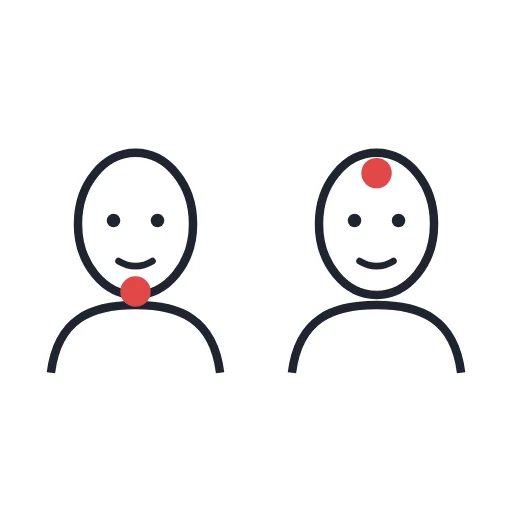
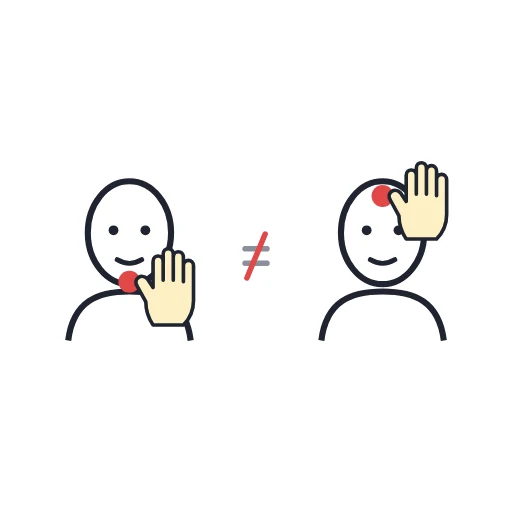
Supply Closet: Word check and Take home formats, word CSV downloads, closet pages in search
- Word check: matching plus fill-in from example sentences, answer key on page 2
- Take home: one page of words and meanings with a home practice idea
- CSV of each module's words (English and Spanish) for Quizlet, Gimkit, spreadsheets
- Word Wall pages, anchor charts, posters and family games now in site search
- minimal pair card redrawn: same hand at chin and forehead

Changed region(s): [[0.5625, 0.2812, 0.9062, 0.75], [0.0938, 0.2812, 0.4375, 0.75], [0.4688, 0.4375, 0.5312, 0.5625]]

diff --git a/site/templates/closet/words.html b/site/templates/closet/words.html
@@ -19,6 +19,8 @@
         <label><input type="radio" name="format" value="wall" checked> Wall cards</label>
         <label><input type="radio" name="format" value="mini"> Mini cards</label>
         <label><input type="radio" name="format" value="gloss"> My words</label>
+        <label><input type="radio" name="format" value="check"> Word check</label>
+        <label><input type="radio" name="format" value="home"> Take home</label>
       </fieldset>
       <fieldset>
         <legend>Language</legend>
@@ -31,6 +33,9 @@
     <p class="word-hint" data-for="wall">Pick a format and a language, then press <b>Print</b>. Wall cards print sideways (landscape), two to a page. Kids can draw in the empty boxes.</p>
     <p class="word-hint" data-for="mini">Pick a language, then press <b>Print</b>. Eight cards to a page: cut on the dashed lines for pocket charts, matching games and word sorts.</p>
     <p class="word-hint" data-for="gloss">Pick a language, then press <b>Print</b>. One page per student: they write what each word means in their own words and draw it.</p>
+    <p class="word-hint" data-for="check">Pick a language, then press <b>Print</b>. A quick check: match each word to its meaning, then fill in the missing word in each sentence. The answer key prints on page 2.{% if band == 'k2' %} For young readers, read the meanings aloud.{% endif %}</p>
+    <p class="word-hint" data-for="home">Pick a language, then press <b>Print</b>. One page for families: the words and what they mean, with an easy way to practice at home.</p>
+    <p class="word-dl"><a href="{{ m.module_id }}-words.csv" download>Download the words (CSV)</a> for Quizlet, Gimkit, Kahoot or a spreadsheet: word, meaning, example, and the same in Spanish.</p>
     <p class="word-note es-note">The Spanish is a first draft. A native speaker has not checked it yet, so read it over before you print.</p>
     {{ teach_strip(tools) }}
   </div>
@@ -88,6 +93,62 @@
         {% endfor %}
       </tbody>
     </table>
+  </section>
+
+  <section class="fmt fmt-check">
+    <div class="gloss-head">
+      <h2><span class="en">Word check: {{ m.title }}</span><span class="es" lang="es">Repaso de palabras</span></h2>
+      <p><span class="en">Name</span><span class="es" lang="es">Nombre</span> <span class="blank"></span></p>
+    </div>
+    <h3 class="chk-h"><span class="en">1. Match each word to what it means. Write the letter.</span><span class="es" lang="es">1. Une cada palabra con lo que significa. Escribe la letra.</span></h3>
+    <div class="chk-match">
+      <ol class="chk-words">
+        {% for c in cards %}<li><span class="chk-line"></span> <b class="en">{{ c.word }}</b><b class="es" lang="es">{{ c.es_word }}</b></li>
+        {% endfor %}
+      </ol>
+      <ul class="chk-defs">
+        {% for c in cards | sort(attribute='letter') %}<li><b>{{ c.letter }}</b> <span class="en">{{ c.definition }}</span><span class="es" lang="es">{{ c.es_definition }}</span></li>
+        {% endfor %}
+      </ul>
+    </div>
+    {% set fill_en = cards | selectattr('gap_en') | sort(attribute='fill_rank') | list %}{% set fill_es = cards | selectattr('gap_es') | sort(attribute='fill_rank') | list %}
+    <h3 class="chk-h"><span class="en">2. Fill in the missing word.</span><span class="es" lang="es">2. Completa con la palabra que falta.</span></h3>
+    <ol class="chk-fill en">
+      {% for c in fill_en %}<li>{{ c.gap_en[0] }}<span class="chk-gap"></span>{{ c.gap_en[1] }}</li>
+      {% endfor %}
+    </ol>
+    <ol class="chk-fill es es-alone" lang="es">
+      {% for c in fill_es %}<li>{{ c.gap_es[0] }}<span class="chk-gap"></span>{{ c.gap_es[1] }}</li>
+      {% endfor %}
+    </ol>
+    <div class="chk-key page-break">
+      <h3 class="chk-h"><span class="en">Answer key: {{ m.title }}</span><span class="es" lang="es">Respuestas</span></h3>
+      <p><b><span class="en">1. Matching</span><span class="es" lang="es">1. Unir</span>:</b> {% for c in cards %}{{ loop.index }}-{{ c.letter }}{{ ', ' if not loop.last }}{% endfor %}</p>
+      <p class="en"><b>2. Fill in:</b> {% for c in fill_en %}{{ loop.index }}. {{ c.word }}{{ ', ' if not loop.last }}{% endfor %}</p>
+      <p class="es es-alone" lang="es"><b>2. Completar:</b> {% for c in fill_es %}{{ loop.index }}. {{ c.es_word }}{{ ', ' if not loop.last }}{% endfor %}</p>
+    </div>
+  </section>
+
+  <section class="fmt fmt-home">
+    <div class="home-head">
+      <p class="eyebrow">{{ grade_label(m.grade) }} · {{ subject.short }} · Curio Class</p>
+      <h2><span class="en">Words we are learning: {{ m.title }}</span><span class="es" lang="es">Palabras que estamos aprendiendo</span></h2>
+    </div>
+    <ul class="home-words">
+      {% for c in cards %}
+      <li>
+        <div class="pic">{% if c.src %}<img src="{{ c.src }}" alt="">{% endif %}</div>
+        <div>
+          <p class="w"><b class="en">{{ c.word }}</b><b class="es" lang="es">{{ c.es_word }}</b></p>
+          <p class="d"><span class="en">{{ c.definition }}</span><span class="es" lang="es">{{ c.es_definition }}</span></p>
+        </div>
+      </li>
+      {% endfor %}
+    </ul>
+    <div class="home-try">
+      <p class="en"><b>Try this at home.</b> Pick a word and ask your child what it means. Then take turns using it in a sentence about your day. Five minutes is plenty.</p>
+      <p class="es" lang="es"><b>Practiquen en casa.</b> Elijan una palabra y pregúntenle a su hijo o hija qué significa. Después, túrnense para usarla en una oración sobre su día. Cinco minutos bastan.</p>
+    </div>
   </section>
   <p class="print-foot">{{ m.title }} · {{ grade_label(m.grade) }} {{ subject.short }} · Curio Class, curioclass.org · free under CC BY 4.0</p>
 </div>

diff --git a/site/assets/curio.css b/site/assets/curio.css
@@ -397,6 +397,41 @@ section.block { padding: 56px 0 8px; }
 .words-page[data-format="wall"] [data-for="wall"], .words-page[data-format="mini"] [data-for="mini"],
 .words-page[data-format="gloss"] [data-for="gloss"], .words-page:not([data-lang="en"]) .es-note { display: block; }
 .words-page[data-format="wall"] .fmt-wall, .words-page[data-format="mini"] .fmt-mini, .words-page[data-format="gloss"] .fmt-gloss { display: block; margin-top: 22px; }
+.words-page[data-format="check"] [data-for="check"], .words-page[data-format="home"] [data-for="home"] { display: block; }
+.words-page[data-format="check"] .fmt-check, .words-page[data-format="home"] .fmt-home { display: block; margin-top: 22px; }
+.words-page[data-lang="both"] .es-alone { display: none; }
+.word-dl { font-size: 15px; margin: 8px 0 4px; max-width: 70ch; }
+.fmt-check, .fmt-home { background: var(--card); padding: 18px 22px; border-radius: 12px; }
+.chk-h { font: 650 18px/1.3 var(--sans); margin: 18px 0 8px; }
+.words-page[data-lang="both"] :is(.chk-h, .chk-key p) .es::before { content: " / "; }
+.chk-match { display: grid; grid-template-columns: minmax(0, 1fr) minmax(0, 1.6fr); gap: 24px; }
+.chk-words, .chk-fill { padding-left: 24px; margin: 0; }
+.chk-words li { margin: 0 0 14px; font-size: 17px; }
+.chk-words b.es { font-weight: 500; color: var(--muted); margin-left: 6px; }
+.words-page[data-lang="both"] .chk-words b.es::before { content: "/ "; }
+.words-page[data-lang="es"] .chk-words b.es { font-weight: 700; color: inherit; margin-left: 0; }
+.chk-line { display: inline-block; width: 38px; border-bottom: 1.5px solid var(--ink); margin-right: 6px; }
+.chk-defs { list-style: none; padding: 0; margin: 0; }
+.chk-defs li { margin: 0 0 10px; font-size: 15px; }
+.chk-defs li > b { display: inline-block; width: 22px; }
+.words-page[data-lang="both"] .chk-defs .es { display: block; margin-left: 22px; color: var(--muted); font-size: 13px; }
+.chk-fill li { margin: 0 0 14px; font-size: 16px; line-height: 1.6; }
+.chk-gap { display: inline-block; width: 130px; border-bottom: 1.5px solid var(--ink); margin: 0 4px; }
+.chk-key { margin-top: 28px; border-top: 1.5px dashed var(--line); padding-top: 8px; font-size: 14px; }
+.home-head { border-bottom: 3px solid var(--band); padding-bottom: 6px; }
+.home-head h2 { font-size: 26px; }
+.words-page[data-lang="both"] .home-head h2 .es { display: block; font-size: 20px; color: var(--muted); }
+.home-words { list-style: none; padding: 0; margin: 12px 0; display: grid; grid-template-columns: repeat(2, minmax(0, 1fr)); gap: 12px 22px; }
+.home-words li { display: grid; grid-template-columns: 80px minmax(0, 1fr); gap: 12px; align-items: center; break-inside: avoid; }
+.home-words .pic { height: 80px; display: flex; align-items: center; justify-content: center; }
+.home-words .pic img { max-width: 100%; max-height: 100%; }
+.home-words .w { font: 650 20px/1.15 var(--serif); margin: 0; }
+.home-words .d { font-size: 14px; margin: 2px 0 0; }
+.words-page[data-lang="both"] .home-words .w .es { font-weight: 500; color: var(--muted); font-size: 16px; }
+.words-page[data-lang="both"] .home-words .w .es::before { content: " / "; }
+.words-page[data-lang="both"] .home-words .d .es { display: block; color: var(--muted); font-size: 13px; }
+.home-try { border: 2px solid var(--band); border-radius: 10px; padding: 10px 14px; margin-top: 10px; }
+.home-try p { margin: 4px 0; font-size: 15px; }
 .words-page[data-lang="en"] .es, .words-page[data-lang="es"] .en, .words-page:not([data-lang="es"]) .es-only { display: none; }
 .words-page[data-lang="both"] :is(.gloss th, .gloss-head h2, .gloss-head p) .es::before { content: " / "; }
 .words-page p { margin: 0; }
@@ -461,6 +496,8 @@ section.block { padding: 56px 0 8px; }
   a { color: inherit; text-decoration: none; }
   .page-break { break-before: page; }
   .print-foot { display: block; font-size: 7.5pt; color: #555; margin-top: 8px; }
+  .fmt-check, .fmt-home { padding: 0; background: none; }
+  .chk-words li, .chk-fill li { margin-bottom: 0.2in; }
   .words-page { max-width: none; padding: 0; -webkit-print-color-adjust: exact; print-color-adjust: exact; }
   .words-page .fmt { margin-top: 0 !important; }
   .fmt-wall, .fmt-wall + .print-foot { page: wallcards; }

diff --git a/scripts/build_site.py b/scripts/build_site.py
@@ -3,7 +3,7 @@
 Run from the repo root:  python scripts/build_site.py
 Needs Jinja2 and Markdown (pip install jinja2 markdown). No other dependencies.
 """
-import base64, csv, json, re, shutil, sys
+import base64, csv, json, random, re, shutil, sys
 from collections import defaultdict
 from datetime import date
 from html import escape as html_escape
@@ -289,6 +289,31 @@ def chart_page(c, color, **ctx):
     (DIST / c['url'].strip('/') / 'chart.svg').write_text(chart_svg.svg(c, 'en', False, color), encoding='utf-8')
 
 
+def word_gap(word, text):
+    """(before, after) around the word in its example sentence, for the Word check fill-in; None if it is not there.
+    Spanish words change form (varía for variar), so a long one-word entry also matches its stem."""
+    hit = re.search(r'(?i)\b' + re.escape(word) + r'\w*', text)
+    if not hit and ' ' not in word and len(word) >= 5:
+        hit = re.search(r'(?i)\b' + re.escape(word[:-2]) + r'\w*', text)
+    return (text[:hit.start()], text[hit.end():]) if hit else None
+
+
+def word_check(seed, cards):
+    """Letters for the Word check matching: the meanings in a fixed shuffle (never the card order), letter A first."""
+    order = list(range(len(cards)))
+    random.Random(seed).shuffle(order)
+    if order == sorted(order):
+        order = order[1:] + order[:1]
+    for pos, i in enumerate(order):
+        cards[i]['letter'] = 'ABCDEFGHIJ'[pos]
+    fill = list(range(len(cards)))  # the fill-in sentences in their own shuffle, so the answers do not run in word order
+    random.Random(seed + '/fill').shuffle(fill)
+    if fill == sorted(fill):
+        fill.reverse()
+    for pos, i in enumerate(fill):
+        cards[i]['fill_rank'] = pos
+
+
 # modules: the hub for everything one module has (tools, then Supply Closet shelves as they ship)
 for m in modules.values():
     mt = by_module[m['module_id']]
@@ -308,6 +333,13 @@ for m in modules.values():
                 (dest / 'art').mkdir(parents=True, exist_ok=True)
                 shutil.copy2(c['art'], dest / 'art' / c['art'].name)
                 c['src'] = 'art/' + c['art'].name
+            c['gap_en'], c['gap_es'] = word_gap(c['word'], c['example']), word_gap(c['es_word'], c['es_example'])
+        word_check(m['module_id'], cards)
+        dest.mkdir(parents=True, exist_ok=True)
+        with open(dest / f"{m['module_id']}-words.csv", 'w', encoding='utf-8-sig', newline='') as f:  # BOM so Excel reads the Spanish
+            out = csv.writer(f)
+            out.writerow(['word', 'definition', 'example', 'palabra', 'definición', 'ejemplo'])
+            out.writerows([c['word'], c['definition'], c['example'], c['es_word'], c['es_definition'], c['es_example']] for c in cards)
         render('closet/words.html', m['url'] + 'words/', m=m, cards=cards, subject=subjects[m['subject']],
                band=check_words.band(m['grade']), tools=[t for t in mt if t['built']])
 
@@ -597,6 +629,20 @@ index += [{'t': m['title'], 'u': m['url'], 'g': grade_label(m['grade']), 's': su
            'b': any(t['built'] for t in by_module[m['module_id']])} for m in modules.values()]
 index += [{'t': s['title'], 'u': s['url'], 'g': grade_label(s['grades']), 's': 'Reading Room', 'f': s['kind'],
            'm': s.get('author', ''), 'c': '', 'd': s.get('summary', ''), 'b': s['ready']} for s in stories + speeches + myth_own + sacred if LIBRARY_LIVE]
+if CLOSET_LIVE:  # Supply Closet items, so "fractions vocabulary" or "photosynthesis chart" finds them
+    for m in modules.values():
+        mod = dict(g=grade_label(m['grade']), s=subjects[m['subject']]['short'], m=m['title'], c=' '.join(m['codes']), b=True)
+        if words.get(m['module_id']):
+            index.append(dict(mod, t=f"Word Wall: {m['title']}", u=m['url'] + 'words/', f='Word Wall',
+                              d='Vocabulary cards: ' + ', '.join(c['word'] for c in words[m['module_id']])))
+        if m['module_id'] in charts:
+            ch = charts[m['module_id']]
+            index.append(dict(mod, t=f"Anchor chart: {ch['title'][0]}", u=ch['url'], f='Anchor chart', d=f"The big idea of {m['title']} on one page"))
+    index += [{'t': f"Poster: {p['title'][0]}", 'u': p['url'], 'g': bands[p['band']]['label'], 's': 'Supply Closet', 'f': 'Poster', 'm': '', 'c': '',
+               'd': p['for'][0], 'b': True} for p in posters.values()]
+    index += [{'t': f"Family game: {g['title']}", 'u': g['url'], 'g': grade_label(g['grade']), 's': subjects[g['subject']]['short'],
+               'f': 'Game Night', 'm': ', '.join(x['title'] for x in g['mods']), 'c': '', 'd': g['learn'], 'b': True}
+              for g in games.values()]
 (DIST / 'search-index.json').write_text(json.dumps(index, separators=(',', ':')), encoding='utf-8')
 render('search.html', '/search/', index=False)
 for name in ['about', 'teachers', 'privacy', 'accessibility', 'license']:

diff --git a/data/closet/words/diagrams.py b/data/closet/words/diagrams.py
@@ -3344,7 +3344,7 @@ world-languages-k-12-the-five-parameters-of-a-sign/handshape = hand(260, 'fist')
 # non-manual marker: a face outline with motion lines
 world-languages-k-12-the-five-parameters-of-a-sign/non-manual-marker = head_outline(280, motion=True)
 # minimal pair: two head outlines with dots at chin and forehead
-world-languages-k-12-the-five-parameters-of-a-sign/minimal-pair = row(head_outline(190, dot='chin'), head_outline(190, dot='forehead'), gap=30)
+world-languages-k-12-the-five-parameters-of-a-sign/minimal-pair = row(over(pad(head_outline(190, dot='chin'), 24), hand(90, hl=True), dx=40, dy=32), raw(40, 60, '<path d="M8 22 H32 M8 38 H32" stroke="#8a8f9c" stroke-width="6" stroke-linecap="round"/><path d="M30 6 L10 54" stroke="#e04848" stroke-width="6" stroke-linecap="round"/>'), over(pad(head_outline(190, dot='forehead'), 24), hand(90, hl=True), dx=40, dy=-62), gap=14)
 
 # ---------- 2026-10-27: the last 176 modules ----------
 # pathway: a dotted zigzag path with a start dot and an end arrow

diff --git a/docs/SUPPLY-CLOSET-PLAN.md b/docs/SUPPLY-CLOSET-PLAN.md
@@ -446,6 +446,11 @@ teacher-guide links (waits for the tools chat), and drafting the Map (`docs/MAP-
 
 Suggested order: 4, 2, 1, 3 (all small and data-only), then 6, then 5 and 7 together, then 8.
 
+**Built 2026-10-27:** 1 (Word check: matching plus fill-in from the example sentences, separately shuffled per module,
+key on page 2; Spanish fill-in uses a stem match and skips sentences where the word changes form too much), 2 (762 word
+pages, 74 charts, 48 posters and 104 games in `search-index.json`), 3 (Take home: one page, words with pictures and
+meanings, a five-minute practice idea) and 4 (`<module>-words.csv` on every word page, UTF-8 with BOM for Excel).
+
 ---
 
 ## Late roadmap: Worksheet Generator (parked 2026-10-26)
